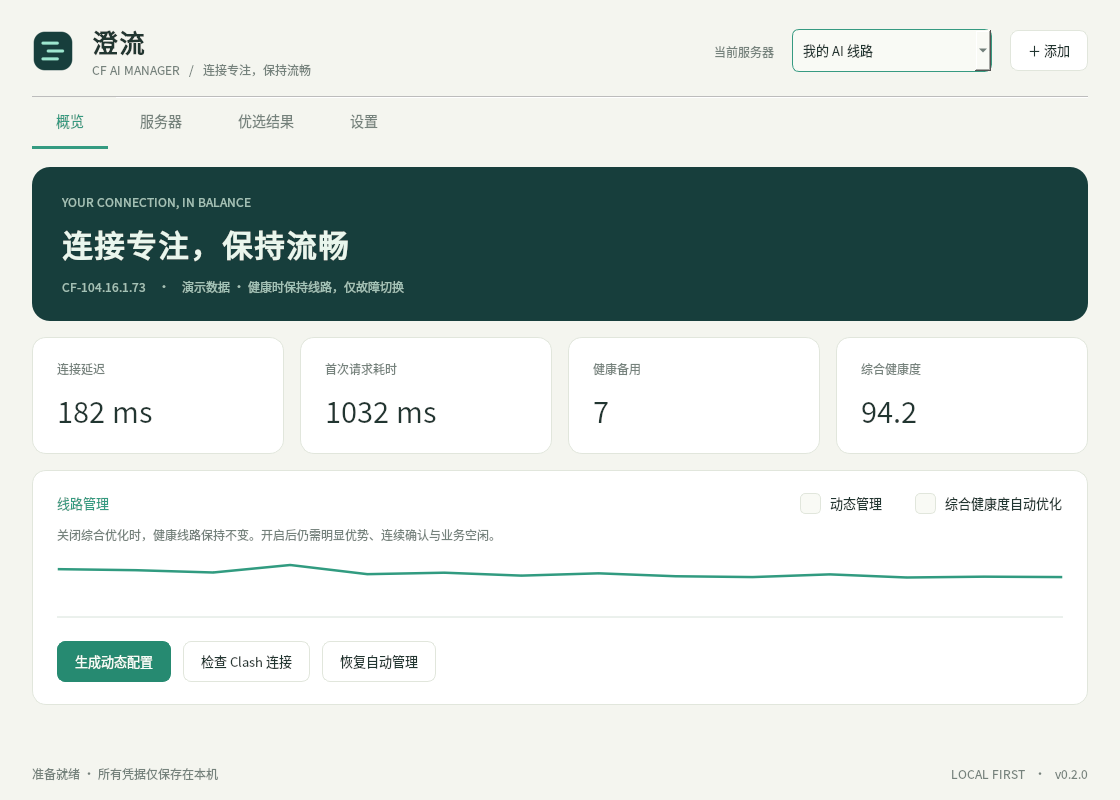
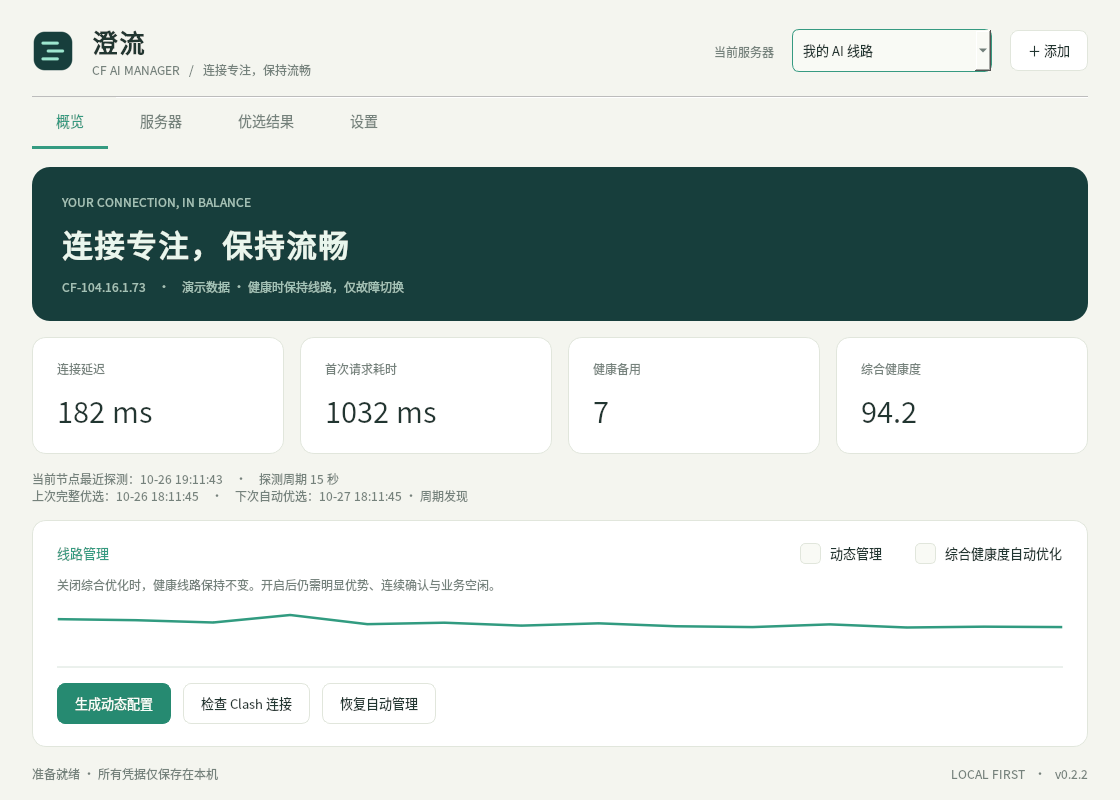
fix: keep health monitoring active during manual hold

diff --git a/cfai/service.py b/cfai/service.py
@@ -29,12 +29,13 @@ class Session:
     def __init__(self, p, store, network):
         self.key = context_key(p, network)
         saved = read_json(store.folder(p.id) / 'observations.json', {})
-        self.history = History.restore(saved.get('history', {})) if saved.get('context') == self.key else History()
+        same_context = saved.get('context') == self.key
+        self.history = History.restore(saved.get('history', {})) if same_context else History()
         self.policy = Policy()
         self.policy.last_optimization = saved.get('last_optimization', -1e20) if saved.get('context') == self.key else -1e20
         self.activity = Activity()
         self.hold = saved.get('hold', False)
-        self.expected = saved.get('expected')
+        self.expected = saved.get('expected') if same_context else None
         self.last_tick = 0
         self.last_backup = 0
         self.state = 'waiting'
@@ -326,10 +327,6 @@ class Service:
         names = [n['name'] for n in nodes]
         if current not in names:
             raise ControllerError('节点池尚未对齐')
-        if session.hold:
-            self.notify('state', {'id': p.id, 'state': 'hold', 'current': current, 'message': '检测到手动选择，点击“恢复自动管理”解除保持'})
-            self.persist(p, session)
-            return
         network = DirectNetwork.discover()
         if self.network is not None and tuple(network.identity) != tuple(self.network):
             self.network_checked = 0
@@ -344,7 +341,7 @@ class Service:
         # Failure decisions use recent backups first and do not wait for a full dead pool.
         failed = session.history.stats(current, p.settings, time.time())['failed']
         decision = (session.policy.decide(current, session.history, names, p.settings, time.time(), False, False, False)
-                    if failed >= p.settings.failure_rounds else None)
+                    if not session.hold and failed >= p.settings.failure_rounds else None)
         if not decision and time.time() - session.last_backup >= p.settings.backup_seconds:
             others = [n for n in names if n != current]
             with ThreadPoolExecutor(max_workers=3) as executor:
@@ -357,7 +354,7 @@ class Service:
                     session.history.record(name, value['latency'], at, value['first_request'])
             session.last_backup = time.time()
         busy = False
-        if p.optimize and p.settings.protect_activity:
+        if p.optimize and p.settings.protect_activity and not session.hold:
             try:
                 busy = session.activity.busy(api.connections(), p, time.time(), p.settings.idle_seconds)
             except ControllerError:
@@ -390,14 +387,22 @@ class Service:
                     session.history.record(current, recovered['latency'], time.time(), recovered['first_request'])
         stats = scores(session.history, names, p.settings, time.time())
         healthy = sum(r['fresh'] and r['streak'] >= p.settings.recovery_rounds for n, r in stats.items() if n != session.current)
-        self.notify('state', {'id': p.id, 'state': 'cf', 'current': session.current, 'stats': stats,
-                             'healthy': healthy, 'last_switch': session.last_switch, 'busy': busy, 'message': '综合优化已开启' if p.optimize else '健康时保持线路，仅故障切换'})
-        self.persist(p, session)
         schedule = read_json(self.store.folder(p.id) / 'schedule.json', {})
         warmed = all(r['samples'] >= p.settings.recovery_rounds for n, r in stats.items() if n != session.current)
         now = time.time()
+        replenish = warmed and healthy < 3
+        daily_due = schedule.get('last_success', 0) + p.settings.daily_seconds
+        next_scan = max(schedule.get('next_allowed', 0), now if replenish else max(now, daily_due))
+        self.notify('state', {'id': p.id, 'state': 'hold' if session.hold else 'cf', 'current': session.current, 'stats': stats,
+                             'healthy': healthy, 'backups_ready': warmed, 'last_switch': session.last_switch, 'busy': busy,
+                             'last_probe_at': stats.get(session.current, {}).get('last_at', 0),
+                             'last_scan_at': schedule.get('last_success', 0), 'next_scan_at': next_scan,
+                             'scan_reason': '健康备用不足' if replenish else '周期发现', 'scanning': self.scanning,
+                             'message': '手动保持：继续监测与发现，不自动切换；点击“恢复自动管理”解除保持' if session.hold else
+                                        '综合优化已开启' if p.optimize else '健康时保持线路，仅故障切换'})
+        self.persist(p, session)
         if (not self.scanning and not self.stop_event.is_set() and now >= schedule.get('next_allowed', 0)
-                and (now - schedule.get('last_success', 0) >= p.settings.daily_seconds or (warmed and healthy < 3))):
+                and (now - schedule.get('last_success', 0) >= p.settings.daily_seconds or replenish)):
             self.start_scan(p, p.settings.background_bandwidth, automatic=True, expected=session.current)
 
     def persist(self, p, session):

diff --git a/cfai/gui.py b/cfai/gui.py
@@ -549,6 +549,9 @@ class Window(QMainWindow):
             body.addWidget(self.metrics[key])
             metrics.addWidget(frame)
         layout.addLayout(metrics)
+        self.monitor_status = label('健康监测：等待接入动态配置。完整优选记录与实时健康探测分别显示。', 'muted')
+        self.monitor_status.setWordWrap(True)
+        layout.addWidget(self.monitor_status)
         frame, body = card()
         row = QHBoxLayout()
         row.addWidget(label('线路管理', 'accent'))
@@ -700,6 +703,7 @@ class Window(QMainWindow):
         self.optimize.setEnabled(bool(p))
         for widget in [self.managed,self.optimize]: widget.blockSignals(False)
         self.spark.values=[]
+        self.last_spark_sample=None
         if p:
             s=p.settings
             self.settings_summary.setText(f'权重 · 成功率 {s.weight_success:g} / 连接 {s.weight_latency:g} / 首次请求 {s.weight_first_request:g} / 波动 {s.weight_jitter:g} / 带宽 {s.weight_bandwidth:g}\n下载预算 {s.budget_bytes/1e6:g} MB    ·    目标池 {s.target_pool} 条    ·    优化领先 {s.advantage_points:g} 分 / 连续 {s.leading_rounds} 轮    ·    间隔 {s.cooldown_seconds//60} 分钟')
@@ -899,14 +903,30 @@ class Window(QMainWindow):
         p=self.current()
         if not p: return
         current=state.get('current')
-        self.hero_title.setText(('线路保持中' if state['state']=='hold' else '连接专注，保持流畅' if state['state']=='cf' else p.name))
+        active=state['state'] in ('cf','hold')
+        self.hero_title.setText(('手动保持 · 持续监测' if state['state']=='hold' else '连接专注，保持流畅' if state['state']=='cf' else p.name))
         self.hero_subtitle.setText((current+'    ·    ' if current else '')+state.get('message',''))
         row=state.get('stats',{}).get(current,{})
-        self.metrics['latency'].setText(f"{row['median']:.0f} ms" if row.get('median') else '—')
-        self.metrics['first_request'].setText(f"{row['first_request']:.0f} ms" if row.get('first_request') else '—')
-        self.metrics['healthy'].setText(str(state.get('healthy','—')))
-        self.metrics['score'].setText(f"{row['score']:.1f}" if row.get('score') is not None else '—')
-        if row.get('median'):
+        fresh=row.get('fresh',True)
+        pending='待探测' if active else '未监测'
+        self.metrics['latency'].setText(f"{row['median']:.0f} ms" if fresh and row.get('median') else pending)
+        self.metrics['first_request'].setText(f"{row['first_request']:.0f} ms" if fresh and row.get('first_request') else pending)
+        self.metrics['healthy'].setText(str(state.get('healthy',0)) if active and state.get('backups_ready',True) else '收集中' if active else '未监测')
+        self.metrics['score'].setText(f"{row['score']:.1f}" if fresh and row.get('score') is not None else '收集中' if active and row.get('samples') and fresh else pending)
+        def timestamp(value):
+            return time.strftime('%m-%d %H:%M:%S',time.localtime(value)) if value else '暂无记录'
+        if active:
+            next_scan=state.get('next_scan_at',0)
+            due='已到期，等待启动' if next_scan and next_scan<=time.time() else timestamp(next_scan)
+            scan=('正在优选' if state.get('scanning') else due+' · '+state.get('scan_reason','周期发现'))
+            self.monitor_status.setText('当前节点最近探测：'+timestamp(state.get('last_probe_at'))+f'    ·    探测周期 {p.settings.poll_seconds} 秒\n'
+                +'上次完整优选：'+timestamp(state.get('last_scan_at'))+'    ·    下次自动优选：'+scan
+                +('    ·    保持期间只更新候选结果，不替换节点池' if state['state']=='hold' else ''))
+        else:
+            self.monitor_status.setText('健康监测：'+state.get('message','等待接入动态配置'))
+        point=(p.id,current,row.get('last_at'))
+        if fresh and row.get('median') and point!=getattr(self,'last_spark_sample',None):
+            self.last_spark_sample=point
             self.spark.values.append(row['median'])
             self.spark.values=self.spark.values[-40:]
             self.spark.update()

diff --git a/tests/test_service.py b/tests/test_service.py
@@ -65,12 +65,63 @@ class ServiceTests(unittest.TestCase):
         self.assertEqual(self.session.history.samples,{})
         self.assertEqual(self.api.selected,[])
 
-    def test_manual_selection_enters_hold_before_probe(self):
+    def test_manual_selection_keeps_monitoring_and_reports_metrics_without_switching(self):
         self.session.expected=self.api.names[1]
+        events=[];self.service.emit=lambda *args:events.append(args)
         with patch('cfai.service.API.discover',return_value=self.api),patch('cfai.service.NodePool',return_value=self.pool):
             self.service.tick(self.p,self.session)
         self.assertTrue(self.session.hold)
-        self.assertEqual(self.session.history.samples,{})
+        self.assertTrue(self.session.history.samples)
+        self.assertEqual(self.api.selected,[])
+        state=next(v for kind,v in events if kind=='state')
+        self.assertEqual(state['state'],'hold')
+        self.assertEqual(state['stats'][self.api.current]['median'],200)
+        self.assertEqual(state['stats'][self.api.current]['first_request'],1000)
+        self.assertGreater(state['last_probe_at'],0)
+        self.assertIn('next_scan_at',state)
+
+    def test_hold_blocks_failure_switch_and_pool_publication_but_allows_discovery(self):
+        import time
+        now=time.time();current,target=self.api.names
+        self.p.managed=True;self.p.optimize=True;self.session.hold=True
+        self.service.sessions[self.p.id]=self.session
+        for at in [now-30,now-20,now-10]:
+            self.session.history.record(current,None,at)
+            self.session.history.record(target,100,at,600)
+        self.api.values[current]=None
+        scans=[];self.service.start_scan=lambda *args,**kw:scans.append(kw)
+        before=self.pool.provider_path.read_bytes()
+        with patch('cfai.service.API.discover',return_value=self.api),patch('cfai.service.NodePool',return_value=self.pool):
+            self.service.tick(self.p,self.session)
+            self.service.publish_discovery(self.p,[{'ip':'104.16.1.3','accepted':True}])
+        self.assertEqual(self.api.selected,[])
+        self.assertEqual(self.pool.provider_path.read_bytes(),before)
+        self.assertEqual(len(scans),1)
+        self.assertTrue(scans[0]['automatic'])
+
+    def test_setting_change_does_not_reuse_an_unrelated_expected_selection(self):
+        from cfai.config import atomic_json
+        atomic_json(self.store.folder(self.p.id)/'observations.json',{'context':self.session.key,'expected':self.api.names[1],'hold':False})
+        self.p.settings.poll_seconds=20
+        session=Session(self.p,self.store,['network'])
+        self.assertIsNone(session.expected)
+        with patch('cfai.service.API.discover',return_value=self.api),patch('cfai.service.NodePool',return_value=self.pool):
+            self.service.tick(self.p,session)
+        self.assertFalse(session.hold)
+
+    def test_scan_schedule_reports_daily_due_time_without_forcing_a_fresh_scan(self):
+        import time
+        from cfai.config import atomic_json
+        now=time.time();last_scan=now-5*3600
+        atomic_json(self.store.folder(self.p.id)/'schedule.json',{'last_success':last_scan,'next_allowed':last_scan+900})
+        events=[];self.service.emit=lambda *args:events.append(args)
+        scans=[];self.service.start_scan=lambda *args,**kw:scans.append(kw)
+        with patch('cfai.service.API.discover',return_value=self.api),patch('cfai.service.NodePool',return_value=self.pool):
+            self.service.tick(self.p,self.session)
+        state=next(v for kind,v in events if kind=='state')
+        self.assertEqual(state['last_scan_at'],last_scan)
+        self.assertEqual(state['next_scan_at'],last_scan+self.p.settings.daily_seconds)
+        self.assertEqual(scans,[])
 
     def test_warm_request_failure_does_not_mark_working_node_down(self):
         self.api.measure=lambda name,*args:{'latency':None,'first_request':900}

diff --git a/tests/test_gui_generation.py b/tests/test_gui_generation.py
@@ -46,6 +46,27 @@ class GenerationUITests(unittest.TestCase):
         open_url.assert_not_called()
         self.assertIn(destination, self.window.status.text())
 
+    def test_hold_shows_live_metrics_and_distinguishes_probe_from_discovery(self):
+        import time
+        now=time.time();current='CF-104.16.1.1'
+        state={'state':'hold','current':current,'healthy':3,'backups_ready':True,
+               'last_probe_at':now,'last_scan_at':now-18000,'next_scan_at':now+68400,
+               'message':'手动保持：继续监测，不自动切换',
+               'stats':{current:{'median':200,'first_request':1100,'score':90,'fresh':True,'last_at':now,'samples':3}}}
+        self.window.show_state(state)
+        self.assertEqual(self.window.metrics['latency'].text(),'200 ms')
+        self.assertEqual(self.window.metrics['first_request'].text(),'1100 ms')
+        self.assertEqual(self.window.metrics['score'].text(),'90.0')
+        self.assertEqual(self.window.metrics['healthy'].text(),'3')
+        self.assertIn('最近探测',self.window.monitor_status.text())
+        self.assertIn('上次完整优选',self.window.monitor_status.text())
+        self.assertIn('下次自动优选',self.window.monitor_status.text())
+        self.window.show_state(state)
+        self.assertEqual(len(self.window.spark.values),1)
+        state['stats'][current].update(fresh=False)
+        self.window.show_state(state)
+        self.assertEqual(self.window.metrics['latency'].text(),'待探测')
+
 
 if __name__ == '__main__':
     unittest.main()

diff --git a/app.py b/app.py
@@ -98,6 +98,7 @@ def main():
         args.render_demo.mkdir(parents=True,exist_ok=True)
         window.show()
         window.states[p.id]={'id':p.id,'state':'cf','current':'CF-104.16.1.73','healthy':7,
+            'last_probe_at':time.time()-2,'last_scan_at':time.time()-3600,'next_scan_at':time.time()+23*3600,
             'stats':{'CF-104.16.1.73':{'median':182,'first_request':1032,'score':94.2}},'message':'演示数据 · 健康时保持线路，仅故障切换'}
         window.selection_changed()
         window.spark.values=[220,215,204,240,196,203,189,200,186,182,195,180,184,182]

diff --git a/cfai/__init__.py b/cfai/__init__.py
@@ -1,2 +1,2 @@
 """CF AI Manager: local, isolated Cloudflare route management."""
-__version__ = '0.2.1'
+__version__ = '0.2.2'

diff --git a/README.md b/README.md
@@ -2,7 +2,7 @@
 
 面向 AI 对话与编程的 Cloudflare 入口优选工具。Windows 10/11 x64；管理自己已搭建的 WS+TLS 隧道，不提供代理服务或部署 VPS。
 
-> 0.2.1 预览版。提供连接延迟与首次请求双指标及可调权重，动态配置可直接选择保存位置。源码公开，便携程序可本地构建。默认没有节点、账号或代理服务。
+> 0.2.2 预览版。手动保持期间持续监测和发现候选，首页区分实时探测与完整优选时间。提供双指标测速及可调权重，动态配置可直接选择保存位置。源码公开，便携程序可本地构建。
 
 ![浅色界面（演示数据）](validation/screenshots/overview-light.png)
 
@@ -10,7 +10,7 @@
 
 ## 使用便携版
 
-完整解压 `CFAIManager-0.2.1-windows-x64.zip`，双击 `CFAIManager.exe`。保留旁边的 `_internal` 目录，无需安装 Python。首次启动是空配置，不含任何现成节点。
+完整解压 `CFAIManager-0.2.2-windows-x64.zip`，双击 `CFAIManager.exe`。保留旁边的 `_internal` 目录，无需安装 Python。首次启动是空配置，不含任何现成节点。
 
 1. 添加服务器，填写 CF 域名、协议、端口、UUID/密码和 WS 路径。SNI/Host 留空跟随域名。
 2. 到“优选结果”点击“开始优选”。使用独立内核验证真实隧道，默认含有限流量的下载测试。
@@ -27,7 +27,8 @@
 - 默认成功率/连接延迟/首次请求耗时/连接延迟波动/带宽权重为 **60/15/5/15/5**；带宽到 2 Mbps 后封顶。在“设置 → 调整全部参数 → 健康评分”中分别调整权重和参考值，权重为相对比例，0 表示不计入。改变评分参数会直接重排已有双指标结果，不要求重新测速；动态监测会重新收集健康观测。
 - 评分中，延迟、首次请求和波动分别使用 `1 / (1 + 实测值 / 参考值)`，各项乘权重后按有效权重归一化为 0–100 分。默认连接延迟参考值 300 ms、首次请求 1500 ms、波动 100 ms。任一参与比较的节点缺少某项证据时，整组统一移除该项，避免缺测节点获得额外优势；没有有效非零权重时显示“数据不足”。
 - 开启追优后，默认同一候选领先至少 10 分、连续三轮新观测、至少间隔 30 分钟。故障切换豁免主动优化冷却。
-- 用户手动改变受管 CF 选择后进入“手动保持”，点击“恢复自动管理”解除。
+- 用户手动改变受管 CF 选择后进入“手动保持”：继续健康探测和定期发现候选，停止自动切换及节点池发布；点击“恢复自动管理”解除。修改设置或网络变化时，不用旧上下文的预期节点误判新的选择。
+- 首页显示当前节点最近探测、上次完整优选和下次自动优选时间。结果页的验证时间属于完整优选快照，不会因每次健康探测而重写。样本未齐时显示“收集中”，过期指标显示“待探测”。默认完整发现周期为 24 小时，备用不足时可提前补充，未到期并不表示健康探测停止。
 - 所有参数在设置中可调整，支持 AI 稳定和多模态/文件预设。下载测试是网络测量，不会发送模型请求或读取浏览器账号。
 
 ## 测速、流量和网络
@@ -74,4 +75,4 @@ $env:PYTHONPATH = (Get-Location).Path
 
 ## 首版验证边界
 
-这是 0.2.1 预览版。离线策略、事务、下载预算、真实本机 TLS 双指标和 GUI 烟测有自动验证；实机验证使用独立测试内核，不切换线上 Clash。尚未在全新 Windows 虚拟机、重启电脑、自启和各种网卡驱动组合上完成覆盖。暂不支持 IPv6 优选、WARP、任意协议转换或自动部署服务端。未作代码签名。
+这是 0.2.2 预览版。离线策略、事务、下载预算、真实本机 TLS 双指标和 GUI 烟测有自动验证；实机验证使用独立测试内核，不切换线上 Clash。尚未在全新 Windows 虚拟机、重启电脑、自启和各种网卡驱动组合上完成覆盖。暂不支持 IPv6 优选、WARP、任意协议转换或自动部署服务端。未作代码签名。
